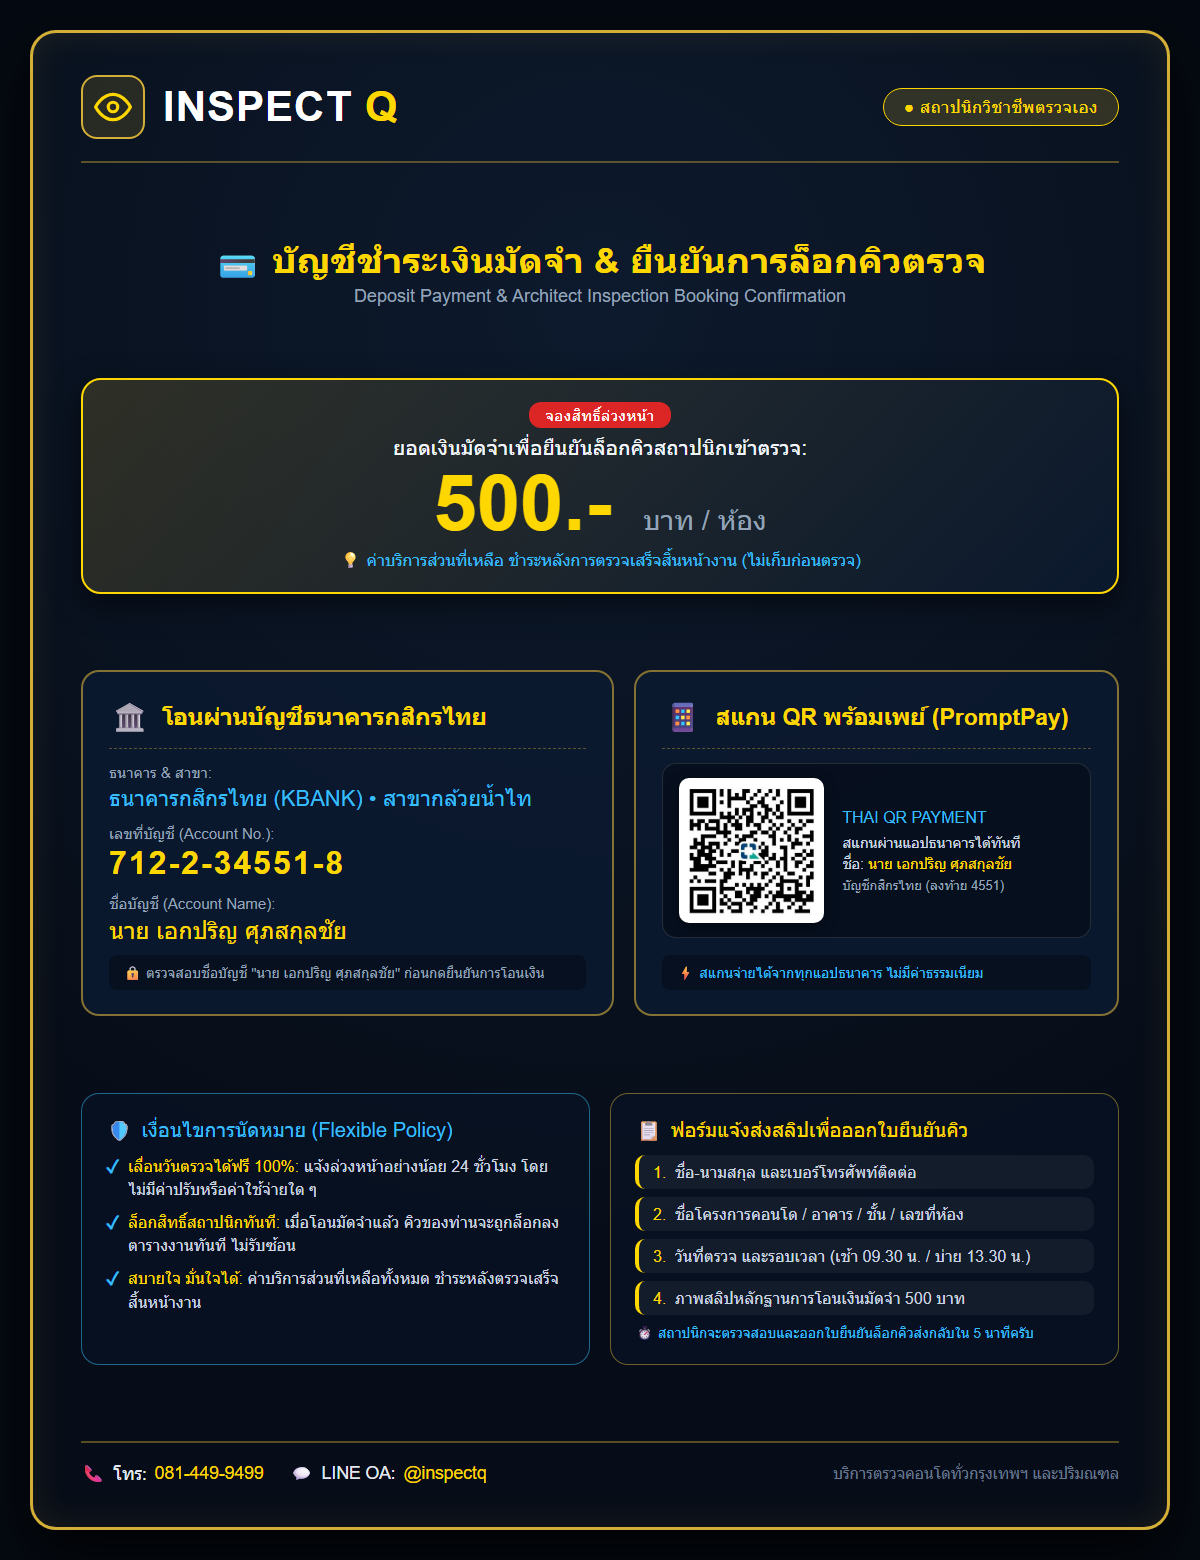
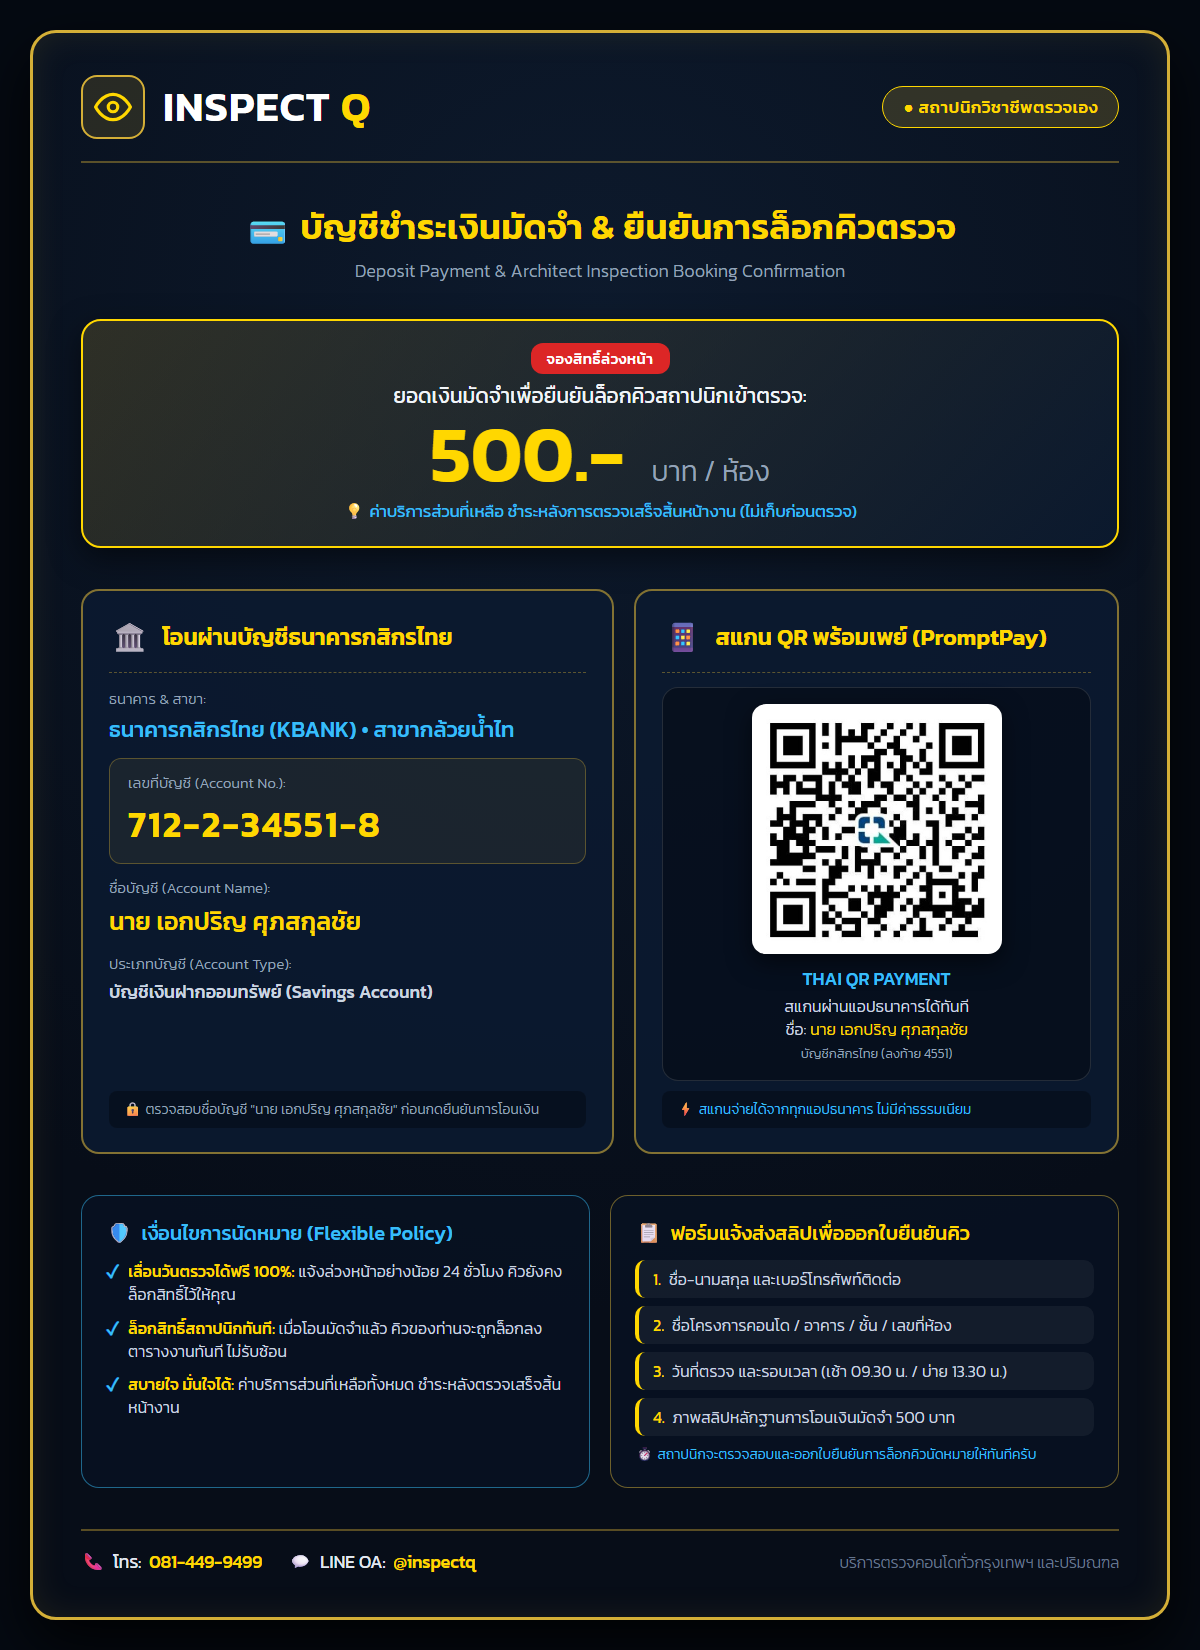
Update card 05: enlarge QR code to 250px, remove no-penalty clause, remove 5-min turnaround

diff --git a/line.html b/line.html
@@ -352,7 +352,7 @@
 
 📌 เงื่อนไขการนัดหมาย (Flexible Policy):
 1. ค่าบริการส่วนที่เหลือ ชำระหลังการตรวจเสร็จสิ้นหน้างาน (ไม่เก็บก่อนตรวจ)
-2. หากติดธุระด่วนหรือโครงการเลื่อน สามารถแจ้งเลื่อนวันตรวจได้ฟรี 100% ล่วงหน้าอย่างน้อย 24 ชั่วโมง โดยไม่มีค่าปรับใด ๆ ทั้งสิ้น คิวยังคงล็อกสิทธิ์ไว้ให้คุณ
+2. หากติดธุระด่วนหรือโครงการเลื่อน สามารถแจ้งเลื่อนวันตรวจได้ฟรี 100% ล่วงหน้าอย่างน้อย 24 ชั่วโมง คิวยังคงล็อกสิทธิ์ไว้ให้คุณ
 
 ──────────────────────
 📸 เมื่อโอนเรียบร้อยแล้ว รบกวนส่งสลิปพร้อมแจ้ง 4 ข้อมูลในห้องแชตนี้ครับ:
@@ -361,7 +361,7 @@
 3. วันที่และรอบเวลาตรวจ (เช้า 09.30 น. / บ่าย 13.30 น.):
 4. แนบรูปภาพสลิปหลักฐานการโอนเงิน 500 บาท
 
-ทางทีมสถาปนิกจะออกใบยืนยันการล็อกคิวนัดหมาย (Booking Confirmation) ส่งกลับให้ทันทีภายใน 5 นาทีครับ ขอบพระคุณครับ 🙏</div>
+ทางทีมสถาปนิกจะออกใบยืนยันการล็อกคิวนัดหมาย (Booking Confirmation) ให้ทันทีครับ ขอบพระคุณครับ 🙏</div>
   </div>
 
   <!-- Card 3: คำชี้แจงสิ่งที่ลูกค้าต้องเตรียมก่อนวันตรวจ (Quick Reply 2) -->
@@ -506,7 +506,7 @@ https://seemee1234-dev.github.io/seemeinspect/landing.html
 6. โครงการนัดตรวจรอบแรก หรือรอบเก็บงาน (Re-check):
 
 ──────────────────────
-เมื่อได้รับข้อมูลแล้ว สถาปนิกจะตรวจสอบตารางงานและยืนยันคิวให้ทันทีใน 5 นาทีครับผม 🙏
+เมื่อได้รับข้อมูลแล้ว สถาปนิกจะตรวจสอบตารางงานและยืนยันคิวให้ทันทีครับผม 🙏
 📞 โทรด่วน: 081-449-9499 | LINE OA: @inspectq</div>
   </div>
 
